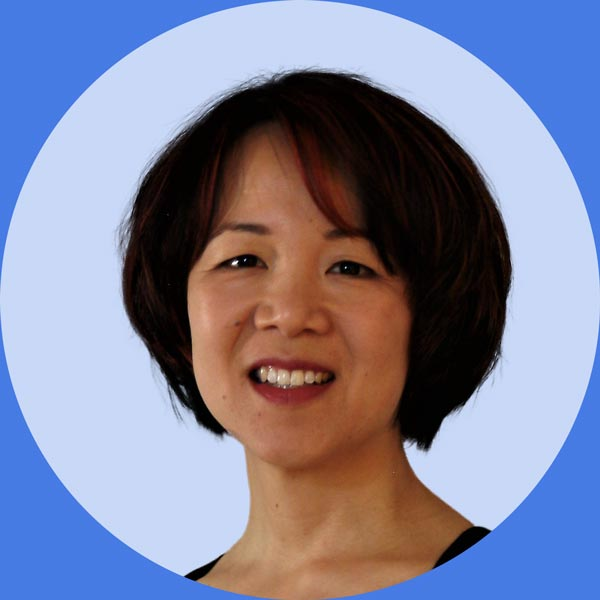
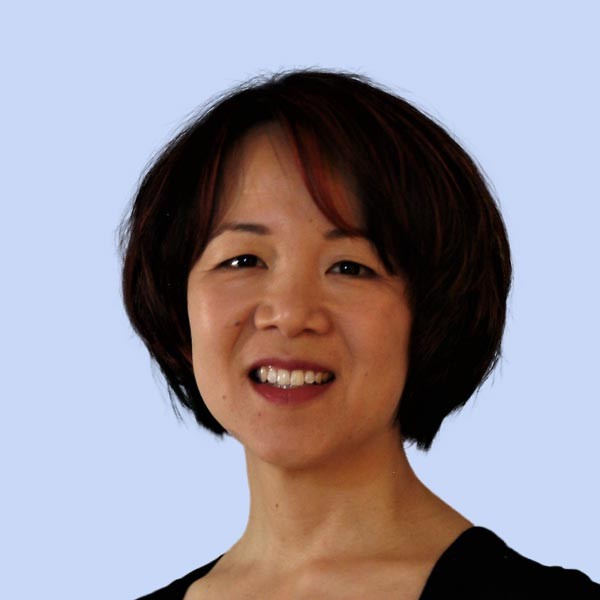
Adjusted the background color order on the home page.

diff --git a/_sass/site.scss b/_sass/site.scss
@@ -82,7 +82,7 @@ body.without-masthead {
     display: flex;
     justify-content: center;
     align-items: center;
-    margin-bottom: $large-spacing;
+    margin-bottom: 45px;
     .head-text {
         font-size: 1.8rem;
         background-color: rgba(0,0,0,0.5);
@@ -157,7 +157,7 @@ ul.features {
     display: flex;
     grid-gap: 60px;
     justify-content: space-evenly;
-    margin-bottom: $large-spacing;
+    margin-bottom: 45px;
     color: $brand-dark;
     li {
         flex: 1;
@@ -206,7 +206,39 @@ hr {
 .blurb {
     font-size: 1.3em;
     margin: 0 auto;
+    &.color-bg {
+        background-color: $color-cta-background;
+        color: $color-white;
+    }
 }
+.color-bg {
+    background-color: $color-cta-background;
+    color: $color-white;
+    .blurb {
+        padding-top: 45px;
+        padding-bottom: 45px;
+    }
+    a {
+        color: $color-white;
+        text-decoration: underline;
+        &:hover {
+            text-decoration: none;
+        }
+    }
+    a.link-button {
+        border: solid 1px $color-white;
+        background-color: $color-cta-background;
+        color: $color-white;
+        text-decoration: none;
+        &:hover,
+        &:focus,
+        &:active {
+            background-color: $color-white;
+            color: $color-cta-background;
+        }
+    }
+}
+
 .blurb-link {
     text-align: center;
 }
@@ -317,6 +349,36 @@ hr {
                     padding-left: 0;
                     padding-bottom: 0;
                 }
+            }
+        }
+
+        &.white-bg {
+            background-color: $color-white;
+            margin: 0;
+            .callout-content {
+                .callout-image-left {
+                }
+                .callout-text-right {
+                    color: $text-color;
+                    a.link-button {
+                        border: solid 1px $brand-color;
+                        background-color: $brand-color;
+                        color: $color-white;
+                        &:hover,
+                        &:focus,
+                        &:active {
+                            background-color: $color-white;
+                            color: $brand-color;
+                        }
+                    }
+                }
+            }
+            @include media-query($on-laptop) {
+                padding: 45px 0;
+            }
+            &.divide-bottom {
+                border-bottom: solid 1px $divider-color;
+                margin-bottom: 45px;
             }
         }
     }

diff --git a/_sass/variables.scss b/_sass/variables.scss
@@ -1,6 +1,7 @@
 $color-dark-purple: #05032D;
 $color-blue: #477BE4;
 $color-peach: #E5A37B;
+$color-cta-background: #313032;
 $color-green: #BAAE57;
 $color-white: #FFFFFF;
 $color-dark: #000000;
